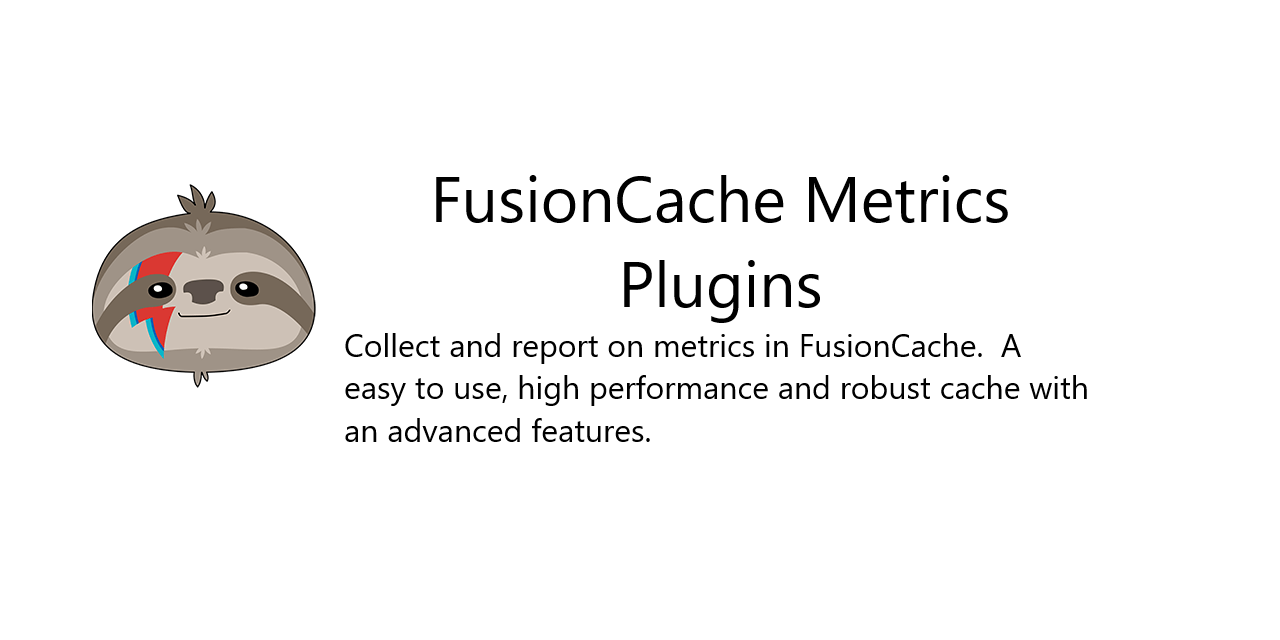
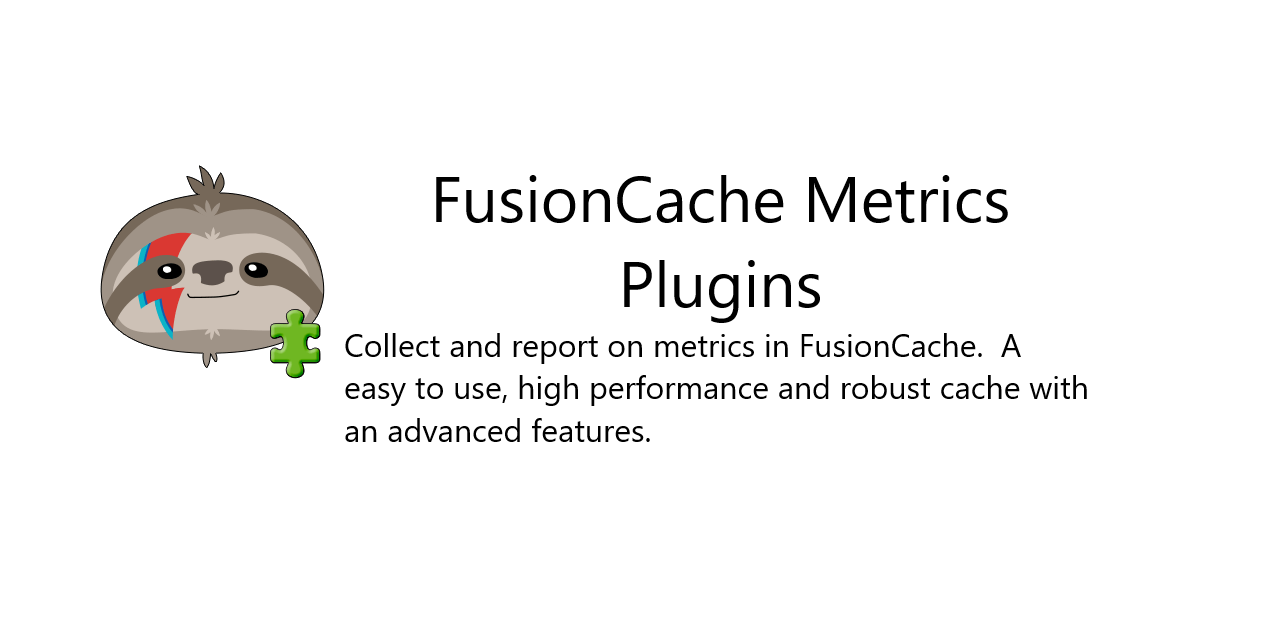
Preparing for first release

Changed region(s): [[0.0625, 0.25, 0.2812, 0.5938]]

diff --git a/src/FusionCache.Plugins.Metrics.AppMetrics/FusionMetricsRegistry.cs b/src/FusionCache.Plugins.Metrics.AppMetrics/FusionMetricsRegistry.cs
@@ -11,8 +11,8 @@ namespace ZiggyCreatures.Caching.Fusion.Plugins.Metrics.AppMetrics
     public class FusionMetricsRegistry
     {
         // In time series database the MetricsOptions.DefaultContextLabel will be prefixed to the MeasurementName
-        private static string MeasurementName = "cache-events";
-        private static string GaugeName = "cache-gauges";
+        public static readonly string MeasurementName = "Cache-Events";
+        public static readonly string GaugeName = "Cache-Gauges";
 
         /// <summary>
         /// Cache hit counter
@@ -20,7 +20,9 @@ namespace ZiggyCreatures.Caching.Fusion.Plugins.Metrics.AppMetrics
         public static CounterOptions CacheHitCounter(ISemanticConventions conventions) => new CounterOptions
         {
             Context = MeasurementName,
+            Name = conventions.CacheHitTagValue,
             Tags = new MetricTags(conventions.CacheEventTagName, conventions.CacheHitTagValue),
+            MeasurementUnit = Unit.Events,
             ResetOnReporting = true
         };
 
@@ -30,7 +32,9 @@ namespace ZiggyCreatures.Caching.Fusion.Plugins.Metrics.AppMetrics
         public static CounterOptions CacheMissCounter(ISemanticConventions conventions) => new CounterOptions
         {
             Context = MeasurementName,
+            Name = conventions.CacheMissTagValue,
             Tags = new MetricTags(conventions.CacheEventTagName, conventions.CacheMissTagValue),
+            MeasurementUnit = Unit.Events,
             ResetOnReporting = true
         };
 
@@ -40,7 +44,9 @@ namespace ZiggyCreatures.Caching.Fusion.Plugins.Metrics.AppMetrics
         public static CounterOptions CacheSetCounter(ISemanticConventions conventions) => new CounterOptions
         {
             Context = MeasurementName,
+            Name = conventions.CacheSetTagValue,
             Tags = new MetricTags(conventions.CacheEventTagName, conventions.CacheSetTagValue),
+            MeasurementUnit = Unit.Events,
             ResetOnReporting = true
         };
 
@@ -50,7 +56,9 @@ namespace ZiggyCreatures.Caching.Fusion.Plugins.Metrics.AppMetrics
         public static CounterOptions CacheStaleHitCounter(ISemanticConventions conventions) => new CounterOptions
         {
             Context = MeasurementName,
+            Name = conventions.CacheStaleHitTagValue,
             Tags = new MetricTags(conventions.CacheEventTagName, conventions.CacheStaleHitTagValue),
+            MeasurementUnit = Unit.Events,
             ResetOnReporting = true
         };
 
@@ -60,7 +68,9 @@ namespace ZiggyCreatures.Caching.Fusion.Plugins.Metrics.AppMetrics
         public static CounterOptions CacheBackgroundRefreshed(ISemanticConventions conventions) => new CounterOptions
         {
             Context = MeasurementName,
+            Name = conventions.CacheBackgroundRefreshedTagValue,
             Tags = new MetricTags(conventions.CacheEventTagName, conventions.CacheBackgroundRefreshedTagValue),
+            MeasurementUnit = Unit.Events,
             ResetOnReporting = true
         };
 
@@ -70,7 +80,9 @@ namespace ZiggyCreatures.Caching.Fusion.Plugins.Metrics.AppMetrics
         public static CounterOptions CacheBackgroundRefreshError(ISemanticConventions conventions) => new CounterOptions
         {
             Context = MeasurementName,
+            Name = conventions.CacheBackgroundFailedRefreshedTagValue,
             Tags = new MetricTags(conventions.CacheEventTagName, conventions.CacheBackgroundFailedRefreshedTagValue),
+            MeasurementUnit = Unit.Events,
             ResetOnReporting = true
         };
 
@@ -80,7 +92,9 @@ namespace ZiggyCreatures.Caching.Fusion.Plugins.Metrics.AppMetrics
         public static CounterOptions CacheFactoryError(ISemanticConventions conventions) => new CounterOptions
         {
             Context = MeasurementName,
+            Name = conventions.CacheCacheFactoryErrorTagValue,
             Tags = new MetricTags(conventions.CacheEventTagName, conventions.CacheCacheFactoryErrorTagValue),
+            MeasurementUnit = Unit.Events,
             ResetOnReporting = true
         };
 
@@ -90,7 +104,9 @@ namespace ZiggyCreatures.Caching.Fusion.Plugins.Metrics.AppMetrics
         public static CounterOptions CacheFactorySyntheticTimeout(ISemanticConventions conventions) => new CounterOptions
         {
             Context = MeasurementName,
+            Name = conventions.CacheFactorySyntheticTimeoutTagValue,
             Tags = new MetricTags(conventions.CacheEventTagName, conventions.CacheFactorySyntheticTimeoutTagValue),
+            MeasurementUnit = Unit.Events,
             ResetOnReporting = true
         };
 
@@ -100,7 +116,9 @@ namespace ZiggyCreatures.Caching.Fusion.Plugins.Metrics.AppMetrics
         public static CounterOptions CacheFailSafeActivate(ISemanticConventions conventions) => new CounterOptions
         {
             Context = MeasurementName,
+            Name = conventions.CacheFailSafeActivateTagValue,
             Tags = new MetricTags(conventions.CacheEventTagName, conventions.CacheFailSafeActivateTagValue),
+            MeasurementUnit = Unit.Events,
             ResetOnReporting = true
         };
 
@@ -110,7 +128,9 @@ namespace ZiggyCreatures.Caching.Fusion.Plugins.Metrics.AppMetrics
         public static CounterOptions CacheExpireCounter(ISemanticConventions conventions) => new CounterOptions
         {
             Context = MeasurementName,
+            Name = conventions.CacheExpiredEvictTagValue,
             Tags = new MetricTags(conventions.CacheEventTagName, conventions.CacheExpiredEvictTagValue),
+            MeasurementUnit = Unit.Events,
             ResetOnReporting = true
         };
 
@@ -120,7 +140,9 @@ namespace ZiggyCreatures.Caching.Fusion.Plugins.Metrics.AppMetrics
         public static CounterOptions CacheCapacityCounter(ISemanticConventions conventions) => new CounterOptions
         {
             Context = MeasurementName,
+            Name = conventions.CacheCapacityEvictTagValue,
             Tags = new MetricTags(conventions.CacheEventTagName, conventions.CacheCapacityEvictTagValue),
+            MeasurementUnit = Unit.Events,
             ResetOnReporting = true
         };
 
@@ -130,7 +152,9 @@ namespace ZiggyCreatures.Caching.Fusion.Plugins.Metrics.AppMetrics
         public static CounterOptions CacheRemoveCounter(ISemanticConventions conventions) => new CounterOptions
         {
             Context = MeasurementName,
+            Name = conventions.CacheRemovedTagValue,
             Tags = new MetricTags(conventions.CacheEventTagName, conventions.CacheRemovedTagValue),
+            MeasurementUnit = Unit.Events,
             ResetOnReporting = true
         };
 
@@ -140,7 +164,9 @@ namespace ZiggyCreatures.Caching.Fusion.Plugins.Metrics.AppMetrics
         public static GaugeOptions CacheItemGauge(ISemanticConventions conventions) => new GaugeOptions
         {
             Context = GaugeName,
+            Name = conventions.CacheItemCountTagValue,
             Tags = new MetricTags(conventions.CacheEventTagName, conventions.CacheItemCountTagValue),
+            MeasurementUnit = Unit.Events,
             ResetOnReporting = false,
         };
     }

diff --git a/examples/AppMetricsPluginExampleDotNetCore/Startup.cs b/examples/AppMetricsPluginExampleDotNetCore/Startup.cs
@@ -1,8 +1,5 @@
-using System;
-using System.Text.Json;
 using App.Metrics;
 using App.Metrics.Extensions.Collectors.MetricsRegistries;
-using App.Metrics.Extensions.HealthChecks;
 using App.Metrics.Filtering;
 using App.Metrics.Formatters.InfluxDB;
 using AppMetricsPluginExampleDotNetCore.Services;
@@ -15,6 +12,8 @@ using Microsoft.Extensions.DependencyInjection;
 using Microsoft.Extensions.Hosting;
 using Microsoft.Extensions.Logging;
 using Microsoft.OpenApi.Models;
+using System;
+using System.Text.Json;
 using ZiggyCreatures.Caching.Fusion;
 using ZiggyCreatures.Caching.Fusion.Plugins;
 using ZiggyCreatures.Caching.Fusion.Plugins.Metrics.AppMetrics;
@@ -132,6 +131,8 @@ namespace AppMetricsPluginExampleDotNetCore
             filter.WhereContext(c =>
                 c != "appmetrics.internal"); //remove default AppMetrics metrics.
 
+            var formatterChoice = Configuration.GetValue<string>("UseMetricNameFormatter");
+
             var appMetrics = new MetricsBuilder()
                 .OutputMetrics.AsJson()
                 .OutputMetrics.AsPlainText()
@@ -139,6 +140,12 @@ namespace AppMetricsPluginExampleDotNetCore
                     options =>
                     {
                         options.DefaultContextLabel = appMetricsContextLabel;
+                        options.WithGlobalTags(
+                            (globalTags, envInfo) =>
+                            {
+                                globalTags.Add("application", metricsConfig.ApplicationName);
+                                globalTags.Add("applicationVersion", metricsConfig.ApplicationVersion);
+                            });
                     })
                 .Report
                 .ToInfluxDb(
@@ -152,18 +159,14 @@ namespace AppMetricsPluginExampleDotNetCore
                         options.InfluxDb.UserName = Configuration["InfluxDbConfig.Username"];
                         options.InfluxDb.Password = Configuration["InfluxDbConfig.Password"];
                         options.InfluxDb.CreateDataBaseIfNotExists = false;
-                        options.MetricsOutputFormatter = new MetricsInfluxDbLineProtocolOutputFormatter(
-                            new MetricsInfluxDbLineProtocolOptions
-                            {
-                                MetricNameFormatter = (metricContext, metricName) =>
-                                    metricContext == SystemUsageMetricsRegistry.ContextName ||
-                                        metricContext == GcMetricsRegistry.ContextName ||
-                                        metricContext == "Application.HttpRequests" ?
-                                        $"{appMetricsContextLabel}_{metricContext}.{metricName}"
-                                            .Replace(' ', '_').Replace('.', '_') : //  AppMetrics namespace convention
-                                        $"{appMetricsContextLabel}_{metricContext}"
-                                            .Replace(' ', '_').Replace('.', '_')// FusionCache namespace convention
-                            });
+                        if (! string.IsNullOrEmpty(formatterChoice))
+                        {
+                            options.MetricsOutputFormatter = new MetricsInfluxDbLineProtocolOutputFormatter(
+                                new MetricsInfluxDbLineProtocolOptions
+                                {
+                                    MetricNameFormatter = GetMetricNameFormatter(appMetricsContextLabel, formatterChoice)
+                                });
+                        }
                     })
                 // .Report.ToTextFile(
                 //     options => {
@@ -178,6 +181,42 @@ namespace AppMetricsPluginExampleDotNetCore
             services.AddMetrics(appMetrics)
                 .AddMetricsTrackingMiddleware()
                 .AddMetricsEndpoints();
+        }
+
+        private Func<string, string, string> GetMetricNameFormatter(string appMetricsContextLabel, string formatterChoice)
+        {
+            if (formatterChoice == "MetricNameFormatterByMeasurementName")
+            {
+                return MetricNameFormatterByMeasurementName(appMetricsContextLabel);
+            }
+
+            return MetricNameFormatterByContextName();
+        }
+
+
+        private static Func<string, string, string> MetricNameFormatterByMeasurementName(string appMetricsContextLabel)
+        {
+            return (metricContext, metricName) =>
+                metricContext == SystemUsageMetricsRegistry.ContextName ||
+                metricContext == GcMetricsRegistry.ContextName ||
+                metricContext == "Application.HttpRequests" ?
+                    $"{appMetricsContextLabel}_{metricContext}_{metricName}"
+                        .Replace(' ', '_').Replace('.', '_') :  //  AppMetrics namespace convention
+                    $"{appMetricsContextLabel}_{metricContext}"
+                        .Replace(' ', '_');  // FusionCache namespace convention
+        }
+
+        private static Func<string, string, string> MetricNameFormatterByContextName()
+        {
+            return (metricContext, metricName) =>
+
+                metricContext == SystemUsageMetricsRegistry.ContextName ||
+                metricContext == GcMetricsRegistry.ContextName ||
+                metricContext == "Application.HttpRequests" ?
+                    $"{metricContext}_{metricName}"
+                        .Replace(' ', '_').Replace('.', '_') :  //  AppMetrics namespace convention
+                    $"{metricContext}"
+                        .Replace(' ', '_');  // FusionCache namespace convention
         }
 
         // This method gets called by the runtime. Use this method to configure the HTTP request pipeline.

diff --git a/examples/AppMetricsPluginExampleFramework/App_Start/AutofacWebapiConfig.cs b/examples/AppMetricsPluginExampleFramework/App_Start/AutofacWebapiConfig.cs
@@ -7,7 +7,6 @@ using App.Metrics;
 using App.Metrics.Extensions.Hosting;
 using App.Metrics.Filtering;
 using App.Metrics.Formatters.InfluxDB;
-using App.Metrics.Formatters.Json;
 using AppMetricsPluginExample.Services;
 using Autofac;
 using Autofac.Integration.WebApi;

diff --git a/examples/AppMetricsPluginExampleDotNetCore/docs/README.md b/examples/AppMetricsPluginExampleDotNetCore/docs/README.md
@@ -1,3 +1,8 @@
+<div align="center">
+
+![FusionCache logo](../../../artwork/logo-plugin-128x128.png)
+
+</div>
 # Example usage of FusionCache.EventCounters.Plugin
 
 <div align="center">
@@ -6,7 +11,7 @@
 
 </div>
 
-## EventCountersPluginExampleDotNetCore is an example project using the FusionCache.AppMetrics.Plugin to plugin to [FusionCache](https://github.com/jodydonetti/ZiggyCreatures.FusionCache)
+## EventCountersPluginExampleDotNetCore is an example project using the JoeShook.FusionCache.AppMetrics.Plugin to plugin to [FusionCache](https://github.com/jodydonetti/ZiggyCreatures.FusionCache)
 
 
 

diff --git a/examples/EventCountersPluginExampleDotNetCore/docs/README.md b/examples/EventCountersPluginExampleDotNetCore/docs/README.md
@@ -1,3 +1,9 @@
+<div align="center">
+
+![FusionCache logo](../../../artwork/logo-plugin-128x128.png)
+
+</div>
+
 # Example usage of FusionCache.EventCounters.Plugin
 
 <div align="center">

diff --git a/README.md b/README.md
@@ -1,6 +1,6 @@
 <div align="center">
 
-![FusionCache logo](./artwork/logo-128x128.png)
+![FusionCache logo](./artwork/logo-plugin-128x128.png)
 
 </div>
 
